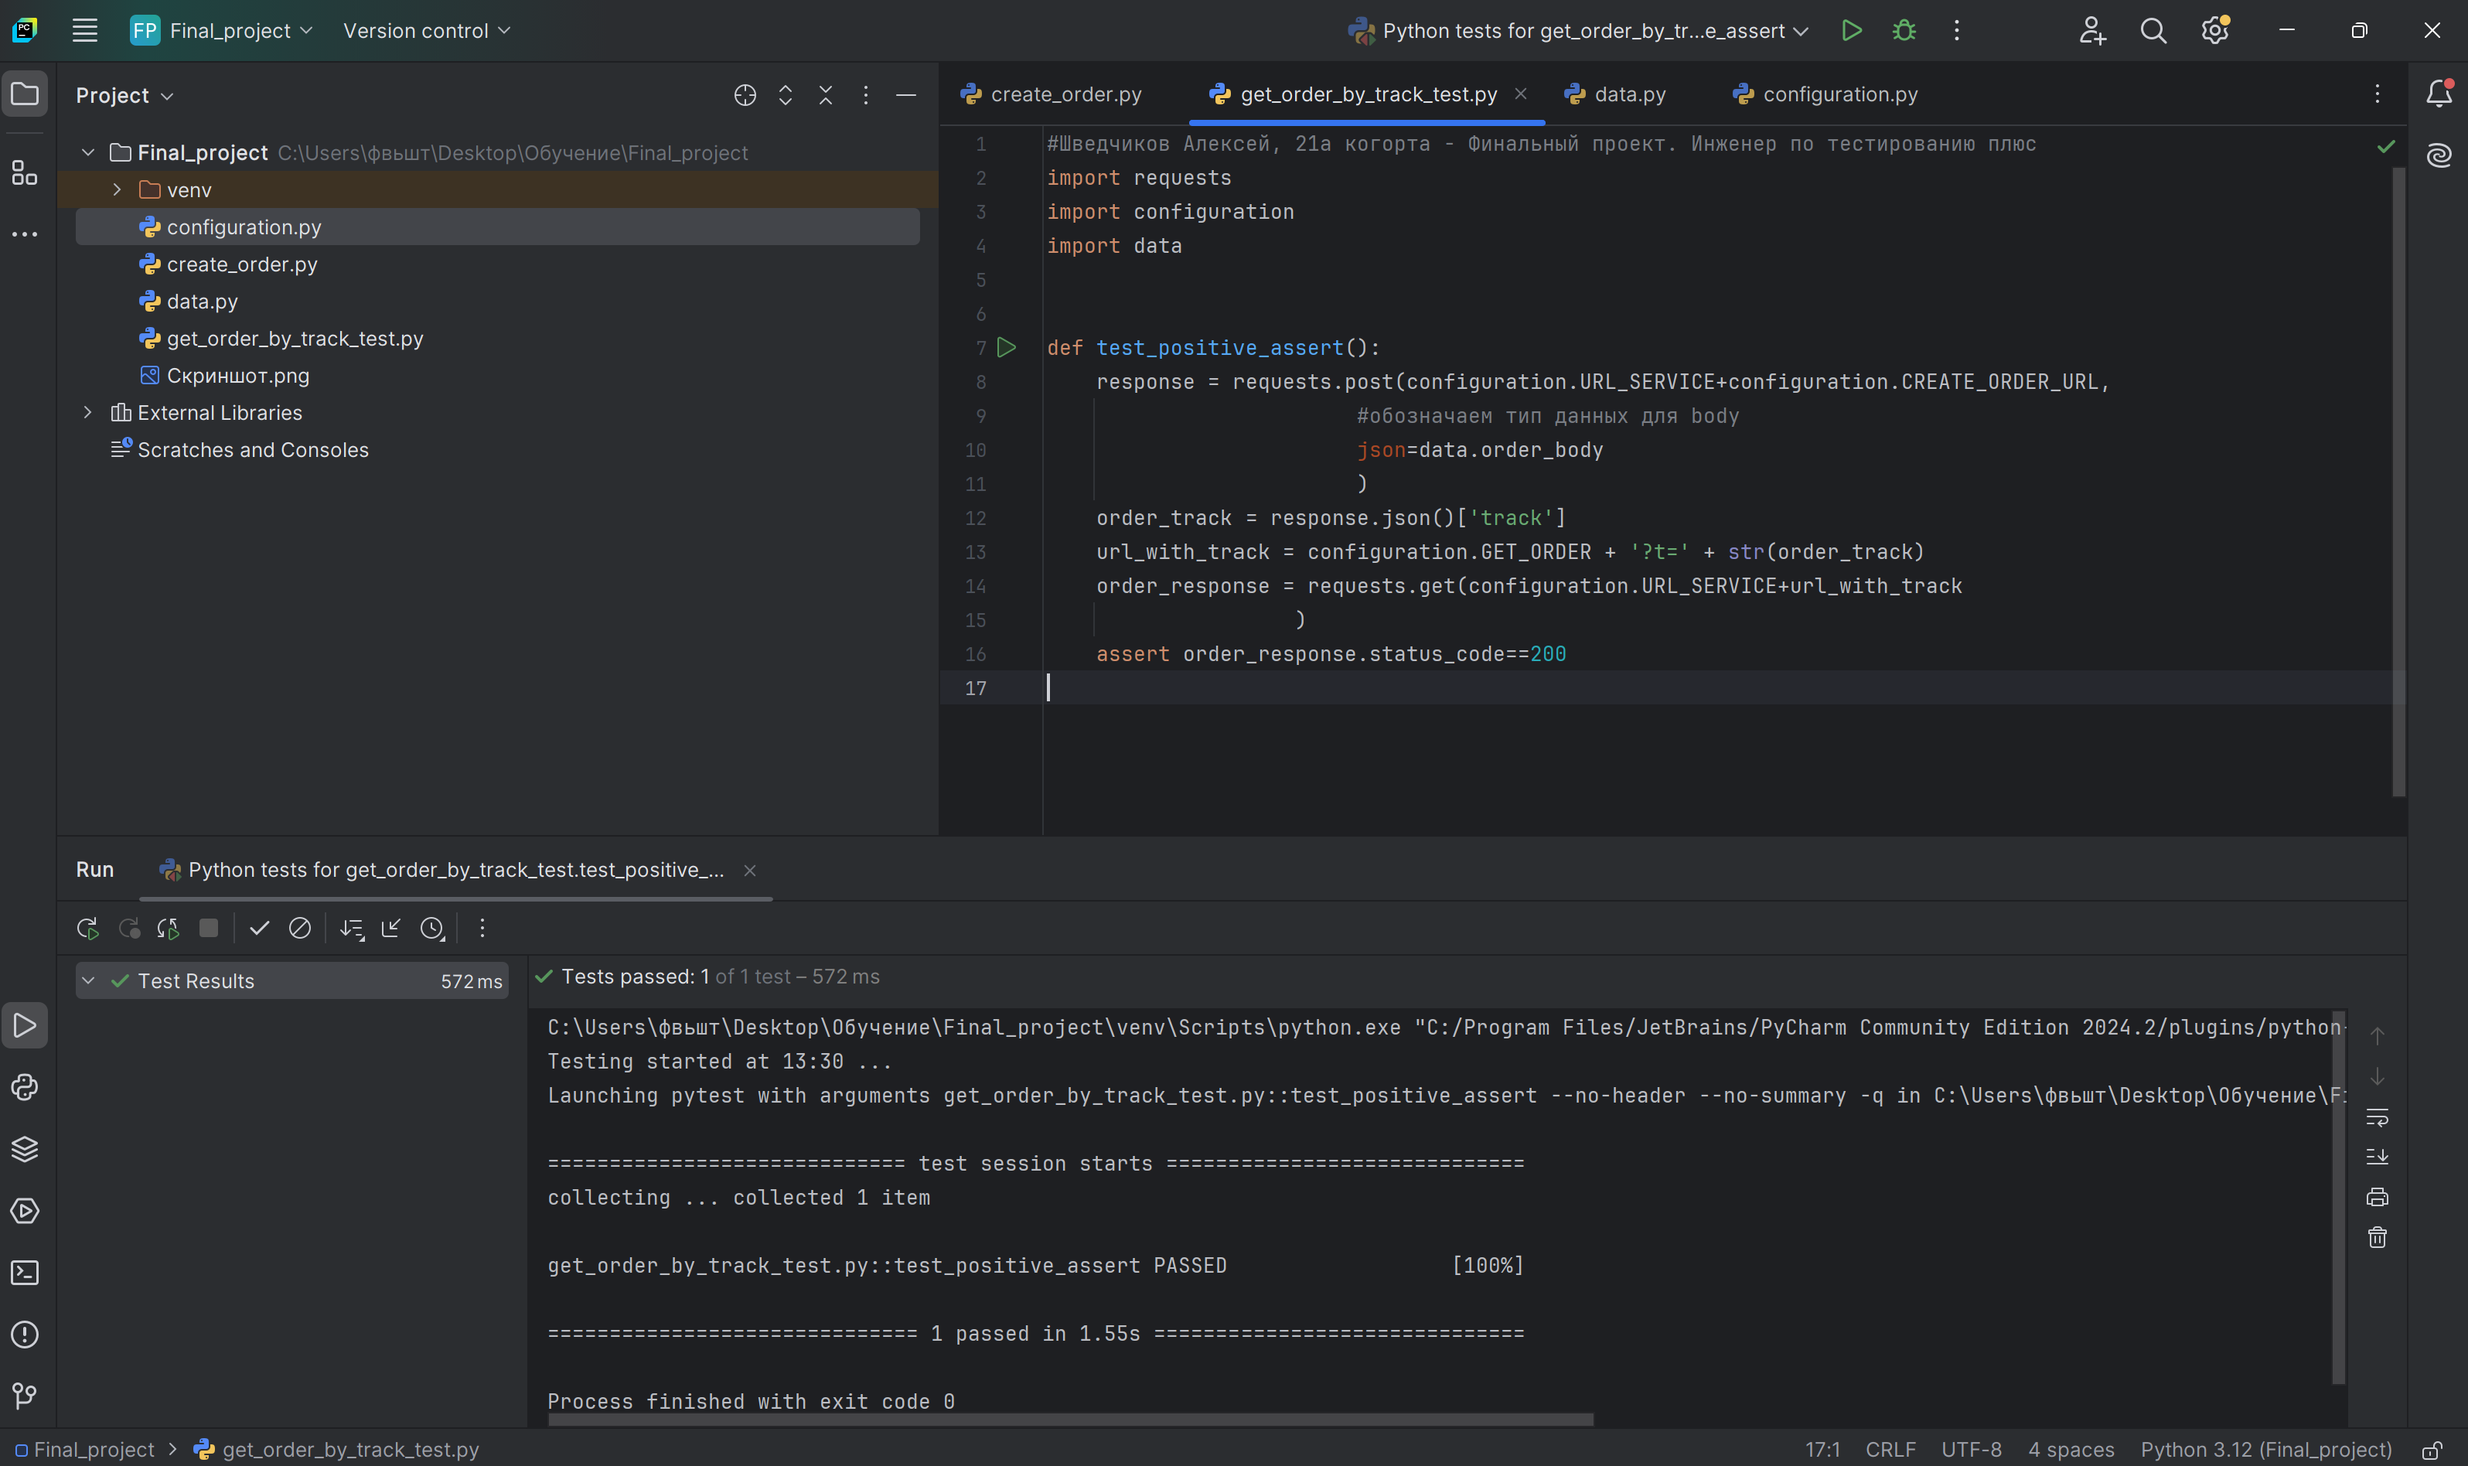
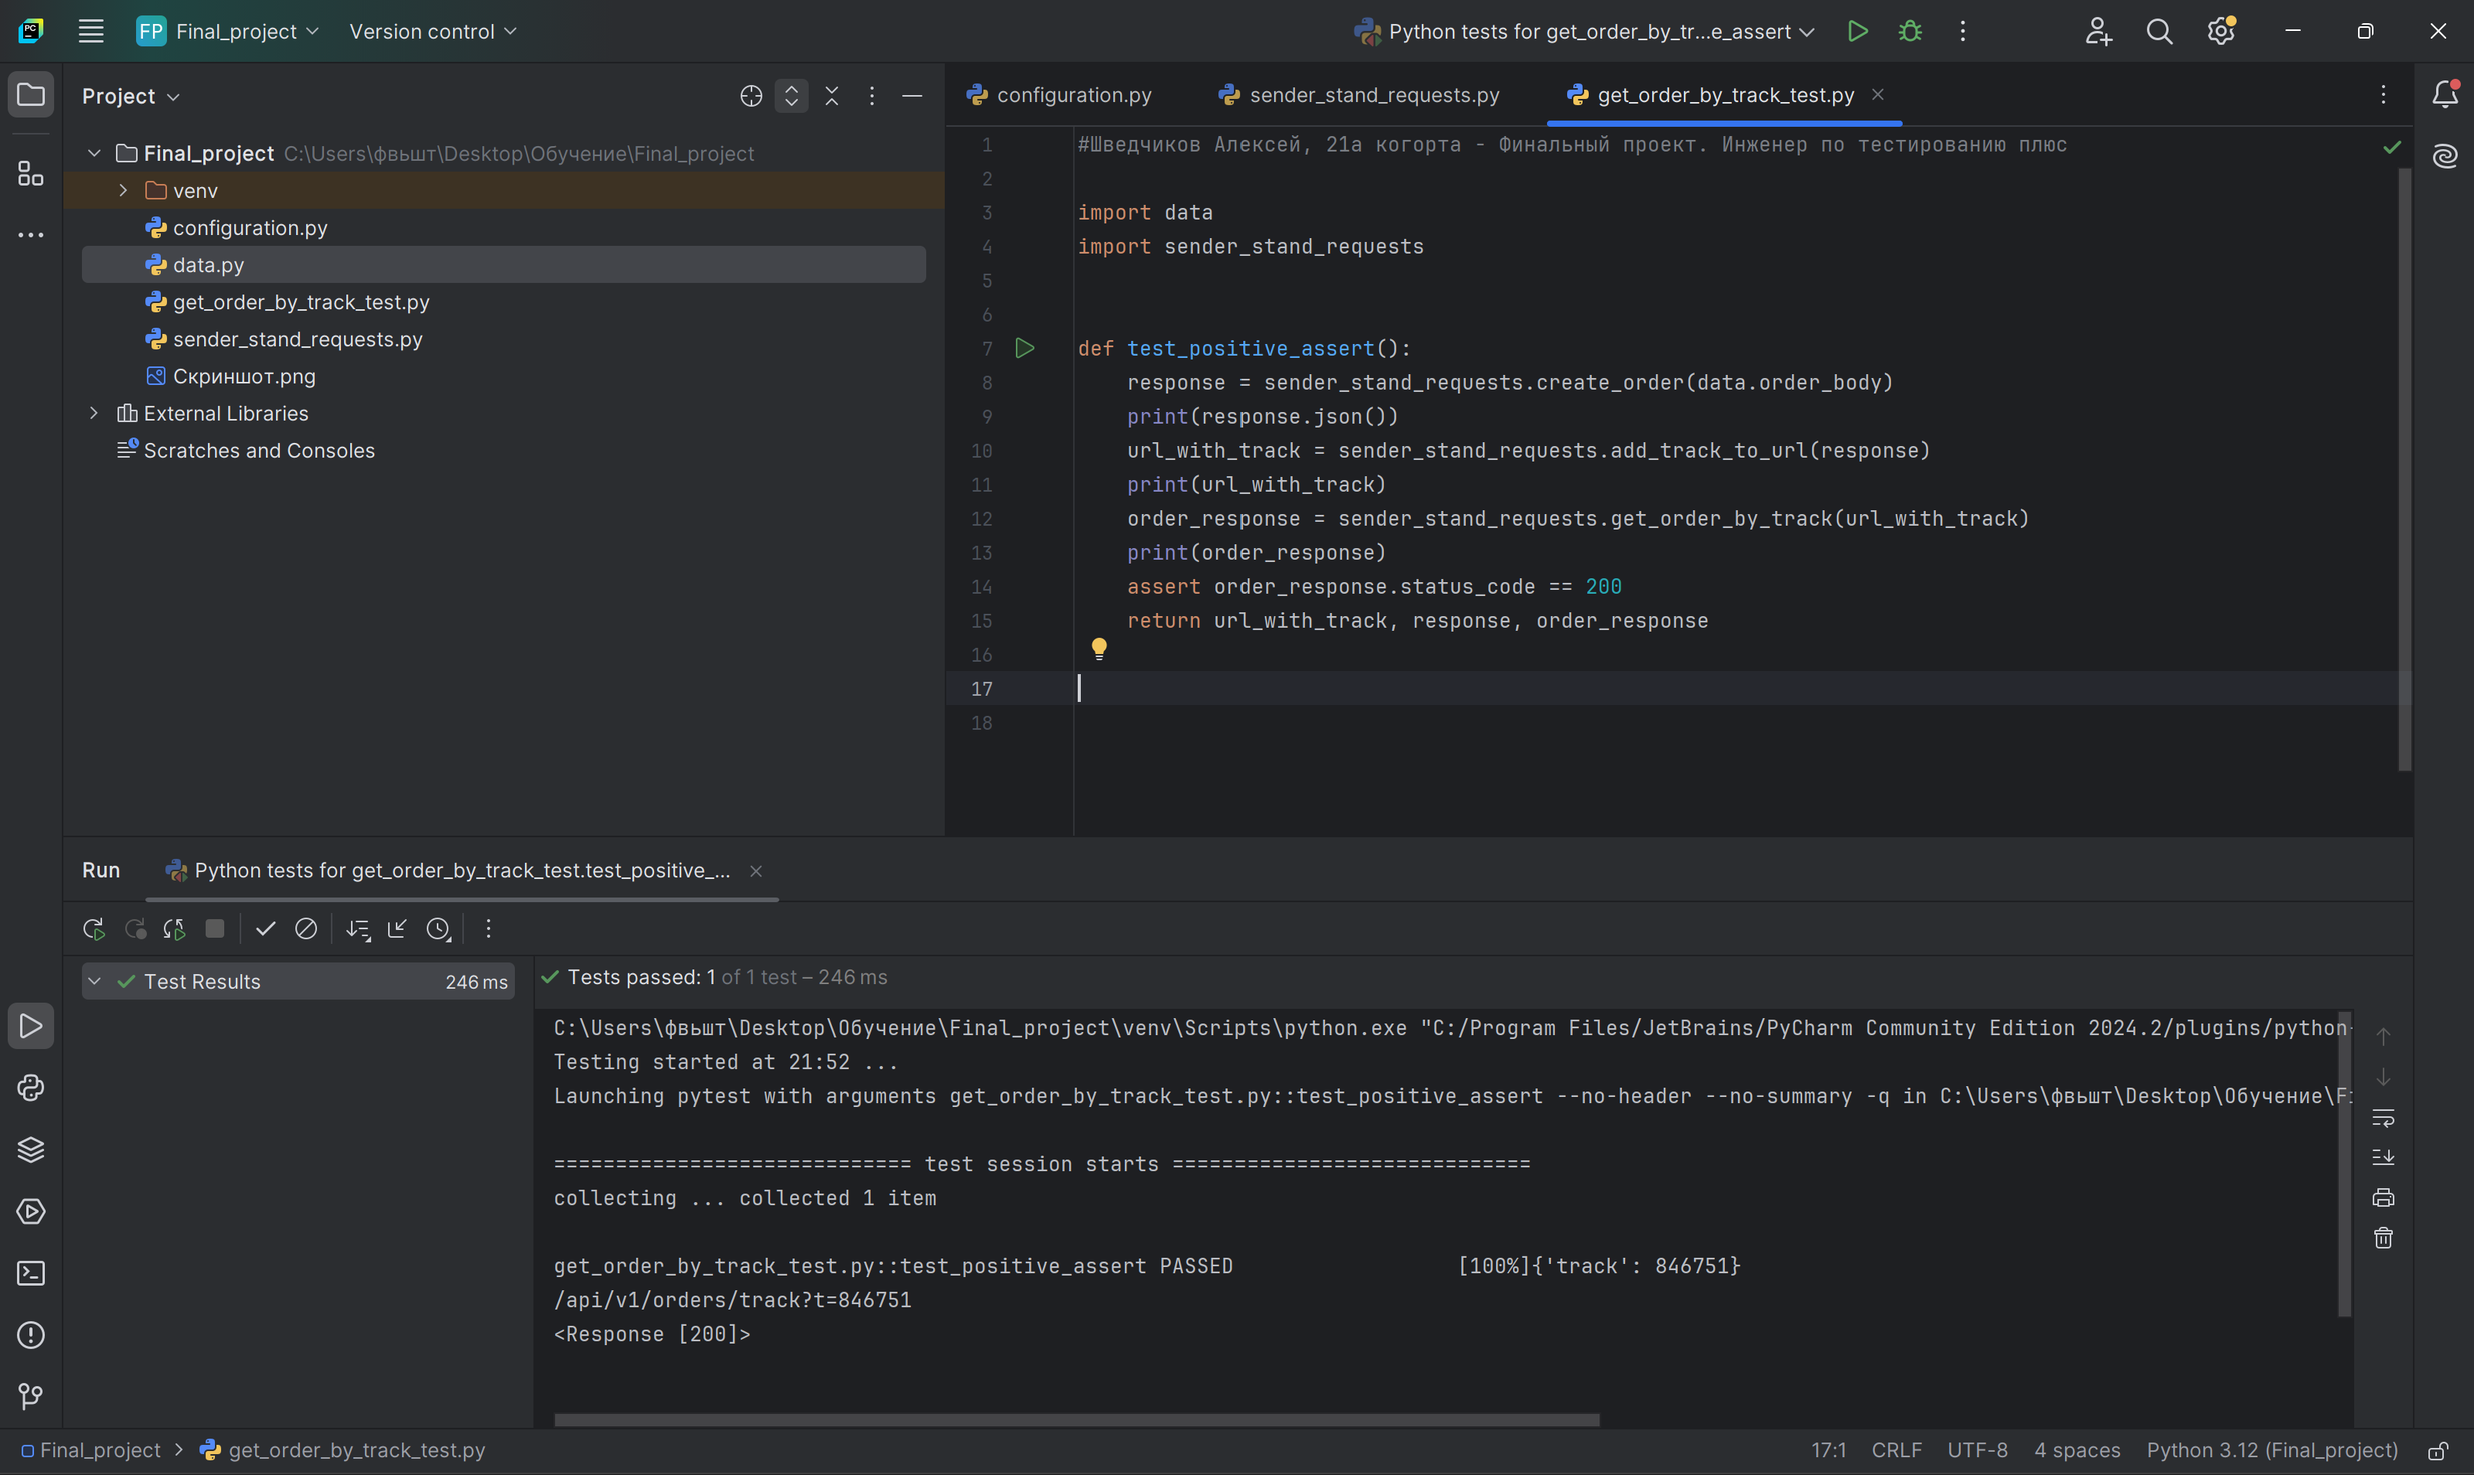
после 2 ревью

diff --git a/get_order_by_track_test.py b/get_order_by_track_test.py
@@ -1,16 +1,17 @@
 #Шведчиков Алексей, 21а когорта - Финальный проект. Инженер по тестированию плюс
-import requests
-import configuration
+
 import data
+import sender_stand_requests
 
 
 def test_positive_assert():
-    response = requests.post(configuration.URL_SERVICE+configuration.CREATE_ORDER_URL,
-                         #обозначаем тип данных для body
-                         json=data.order_body
-                         )
-    order_track = response.json()['track']
-    url_with_track = configuration.GET_ORDER + '?t=' + str(order_track)
-    order_response = requests.get(configuration.URL_SERVICE+url_with_track
-                    )
-    assert order_response.status_code==200
+    response = sender_stand_requests.create_order(data.order_body)
+    print(response.json())
+    url_with_track = sender_stand_requests.add_track_to_url(response)
+    print(url_with_track)
+    order_response = sender_stand_requests.get_order_by_track(url_with_track)
+    print(order_response)
+    assert order_response.status_code == 200
+    return url_with_track, response, order_response
+
+

diff --git a/sender_stand_requests.py b/sender_stand_requests.py
@@ -1,0 +1,20 @@
+#Подключаем файлы и библиотеки
+import configuration
+import requests
+
+
+
+#функция создания заказа
+def create_order(body):
+     return requests.post(configuration.URL_SERVICE+configuration.CREATE_ORDER_URL,
+                          json=body
+                          )
+
+#функция добавления в URL трека
+def add_track_to_url(response):
+     return configuration.GET_ORDER + '?t='+str(response.json()['track'])
+
+#функция получения заказа по треку
+def get_order_by_track(url_with_track) :
+     return requests.get(configuration.URL_SERVICE+url_with_track
+                     )
